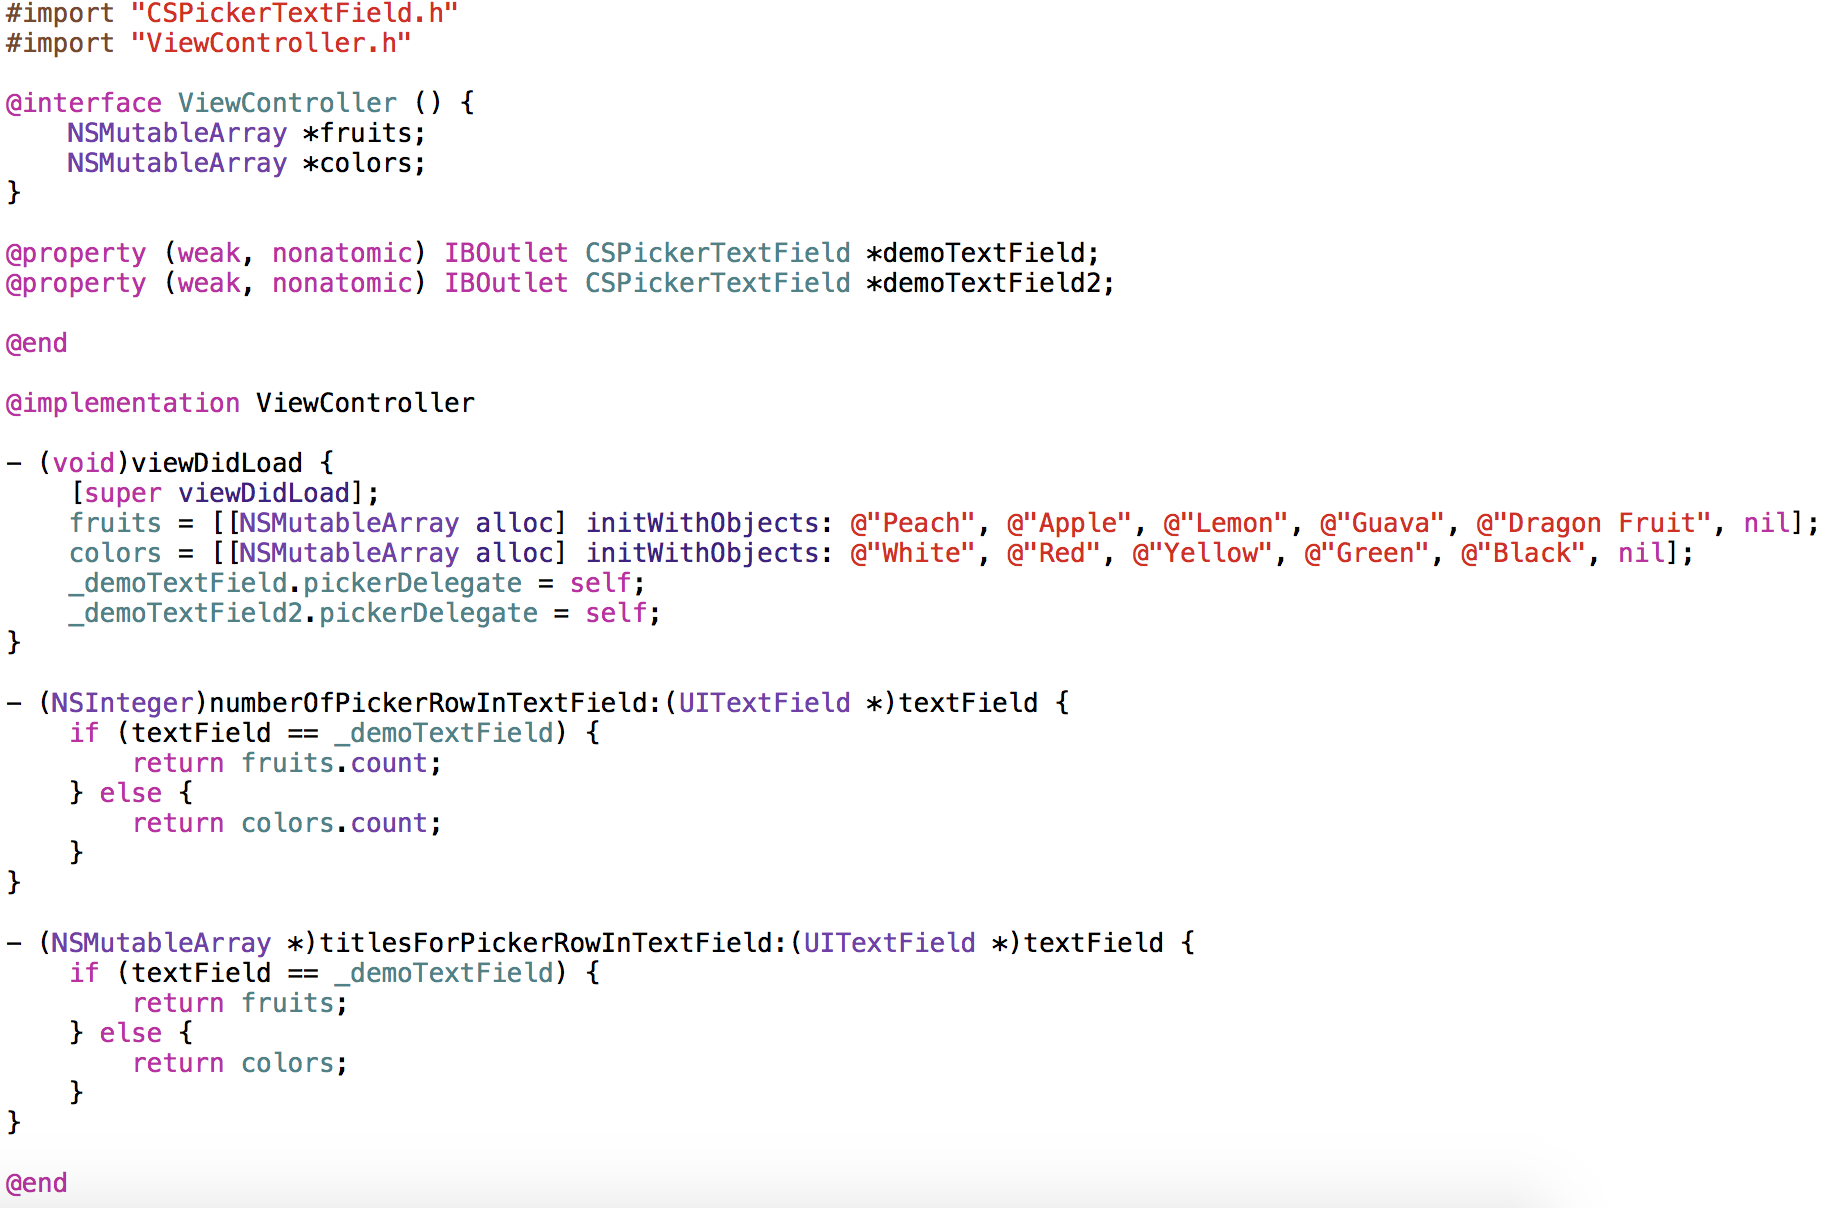
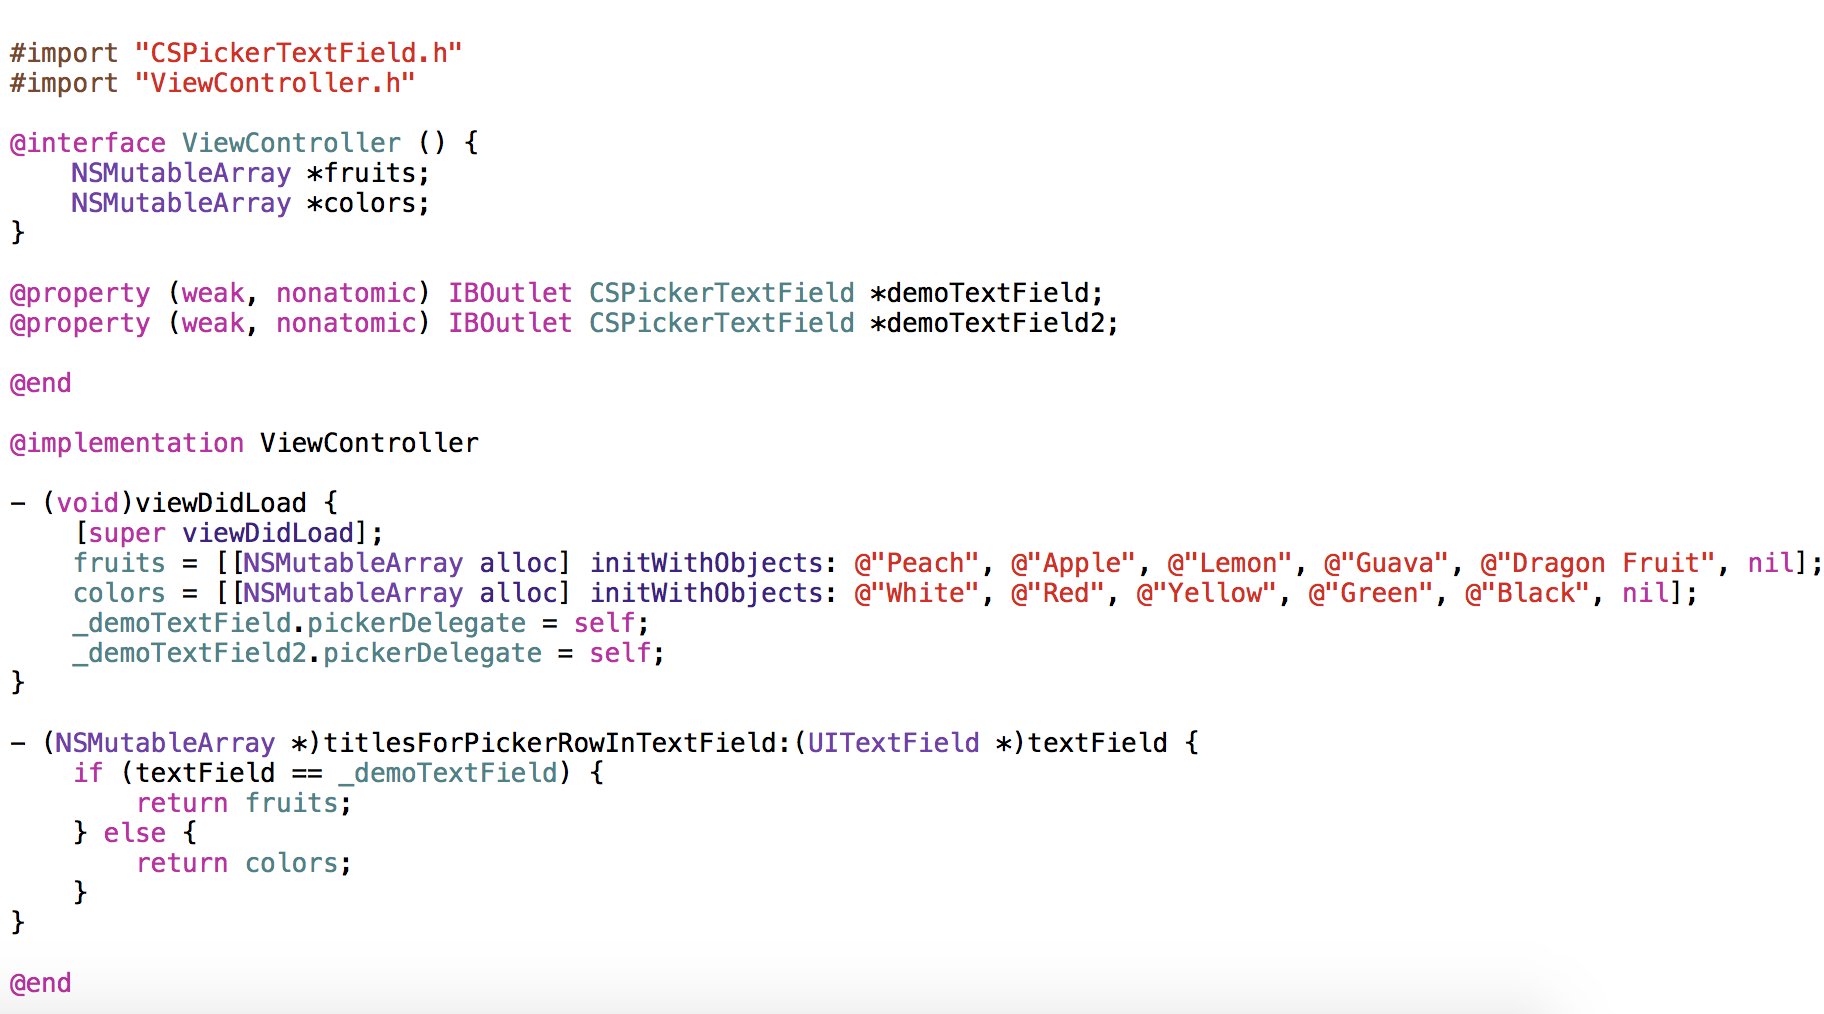
Trimmed CSPickerTextFieldDelegate's numberOfPickerRowInTextField method

diff --git a/CSPickerTextFieldDemo/ViewController.m b/CSPickerTextFieldDemo/ViewController.m
@@ -5,6 +5,8 @@
 //  Created by Sean on 10/25/15.
 //  Copyright © 2015 Sean. All rights reserved.
 //
+
+
 #import "CSPickerTextField.h"
 #import "ViewController.h"
 
@@ -26,14 +28,6 @@
     colors = [[NSMutableArray alloc] initWithObjects: @"White", @"Red", @"Yellow", @"Green", @"Black", nil];
     _demoTextField.pickerDelegate = self;
     _demoTextField2.pickerDelegate = self;
-}
-
-- (NSInteger)numberOfPickerRowInTextField:(UITextField *)textField {
-    if (textField == _demoTextField) {
-        return fruits.count;
-    } else {
-        return colors.count;
-    }
 }
 
 - (NSMutableArray *)titlesForPickerRowInTextField:(UITextField *)textField {

diff --git a/CSPickerTextField/CSPickerTextField.m b/CSPickerTextField/CSPickerTextField.m
@@ -41,7 +41,7 @@
 }
 
 - (NSInteger)pickerView:(UIPickerView *)pickerView numberOfRowsInComponent:(NSInteger)component {
-    return [pickerDelegate numberOfPickerRowInTextField:_textField];
+    return [[pickerDelegate titlesForPickerRowInTextField:_textField] count];
 }
 
 - (NSString *)pickerView:(UIPickerView *)pickerView titleForRow:(NSInteger)row forComponent:(NSInteger)component {

diff --git a/CSPickerTextField/CSPickerTextFieldDelegate.h b/CSPickerTextField/CSPickerTextFieldDelegate.h
@@ -10,7 +10,6 @@
 
 @protocol CSPickerTextFieldDelegate <NSObject>
 
-- (NSInteger)numberOfPickerRowInTextField:(UITextField *)textField;
 - (NSMutableArray *)titlesForPickerRowInTextField:(UITextField *)textField;
 
 @end
